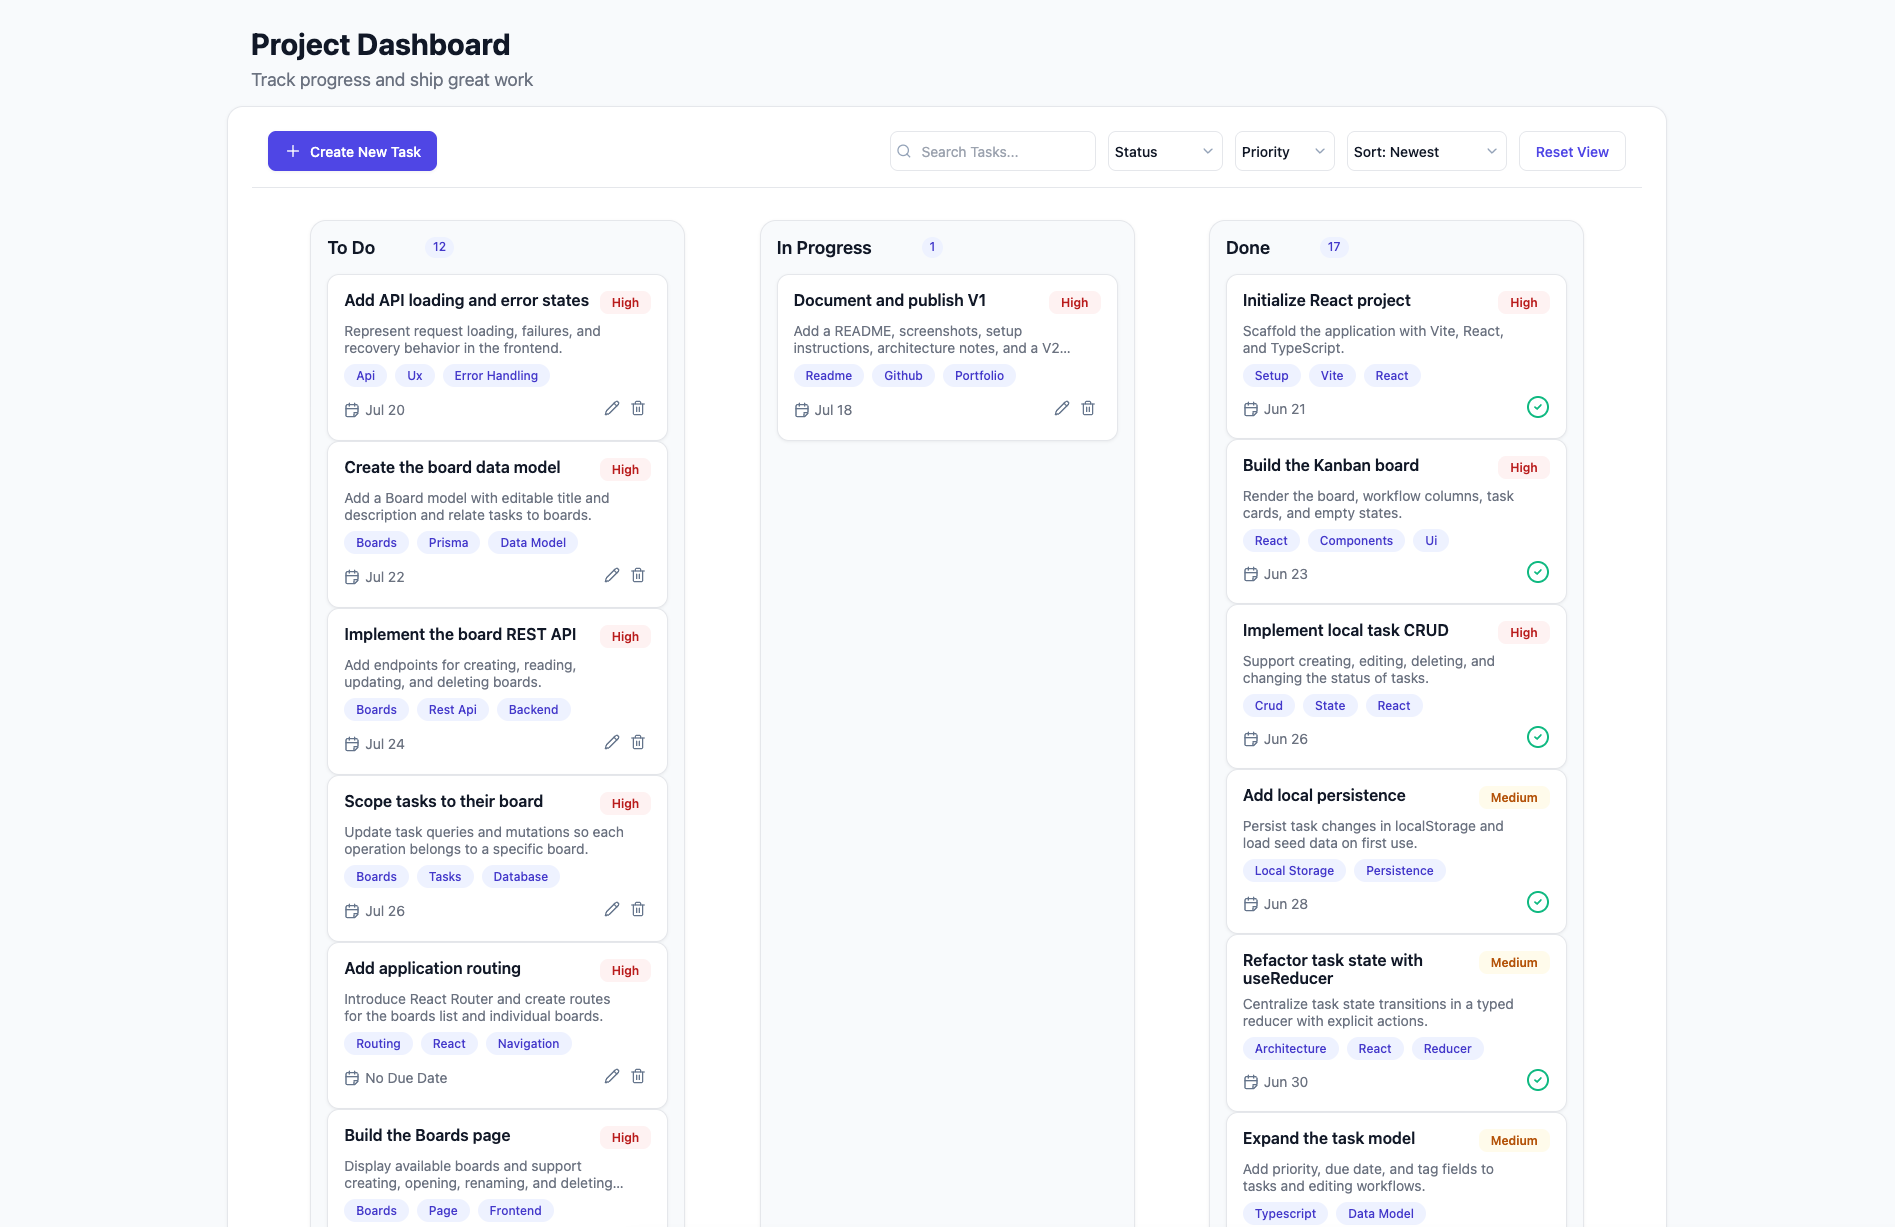
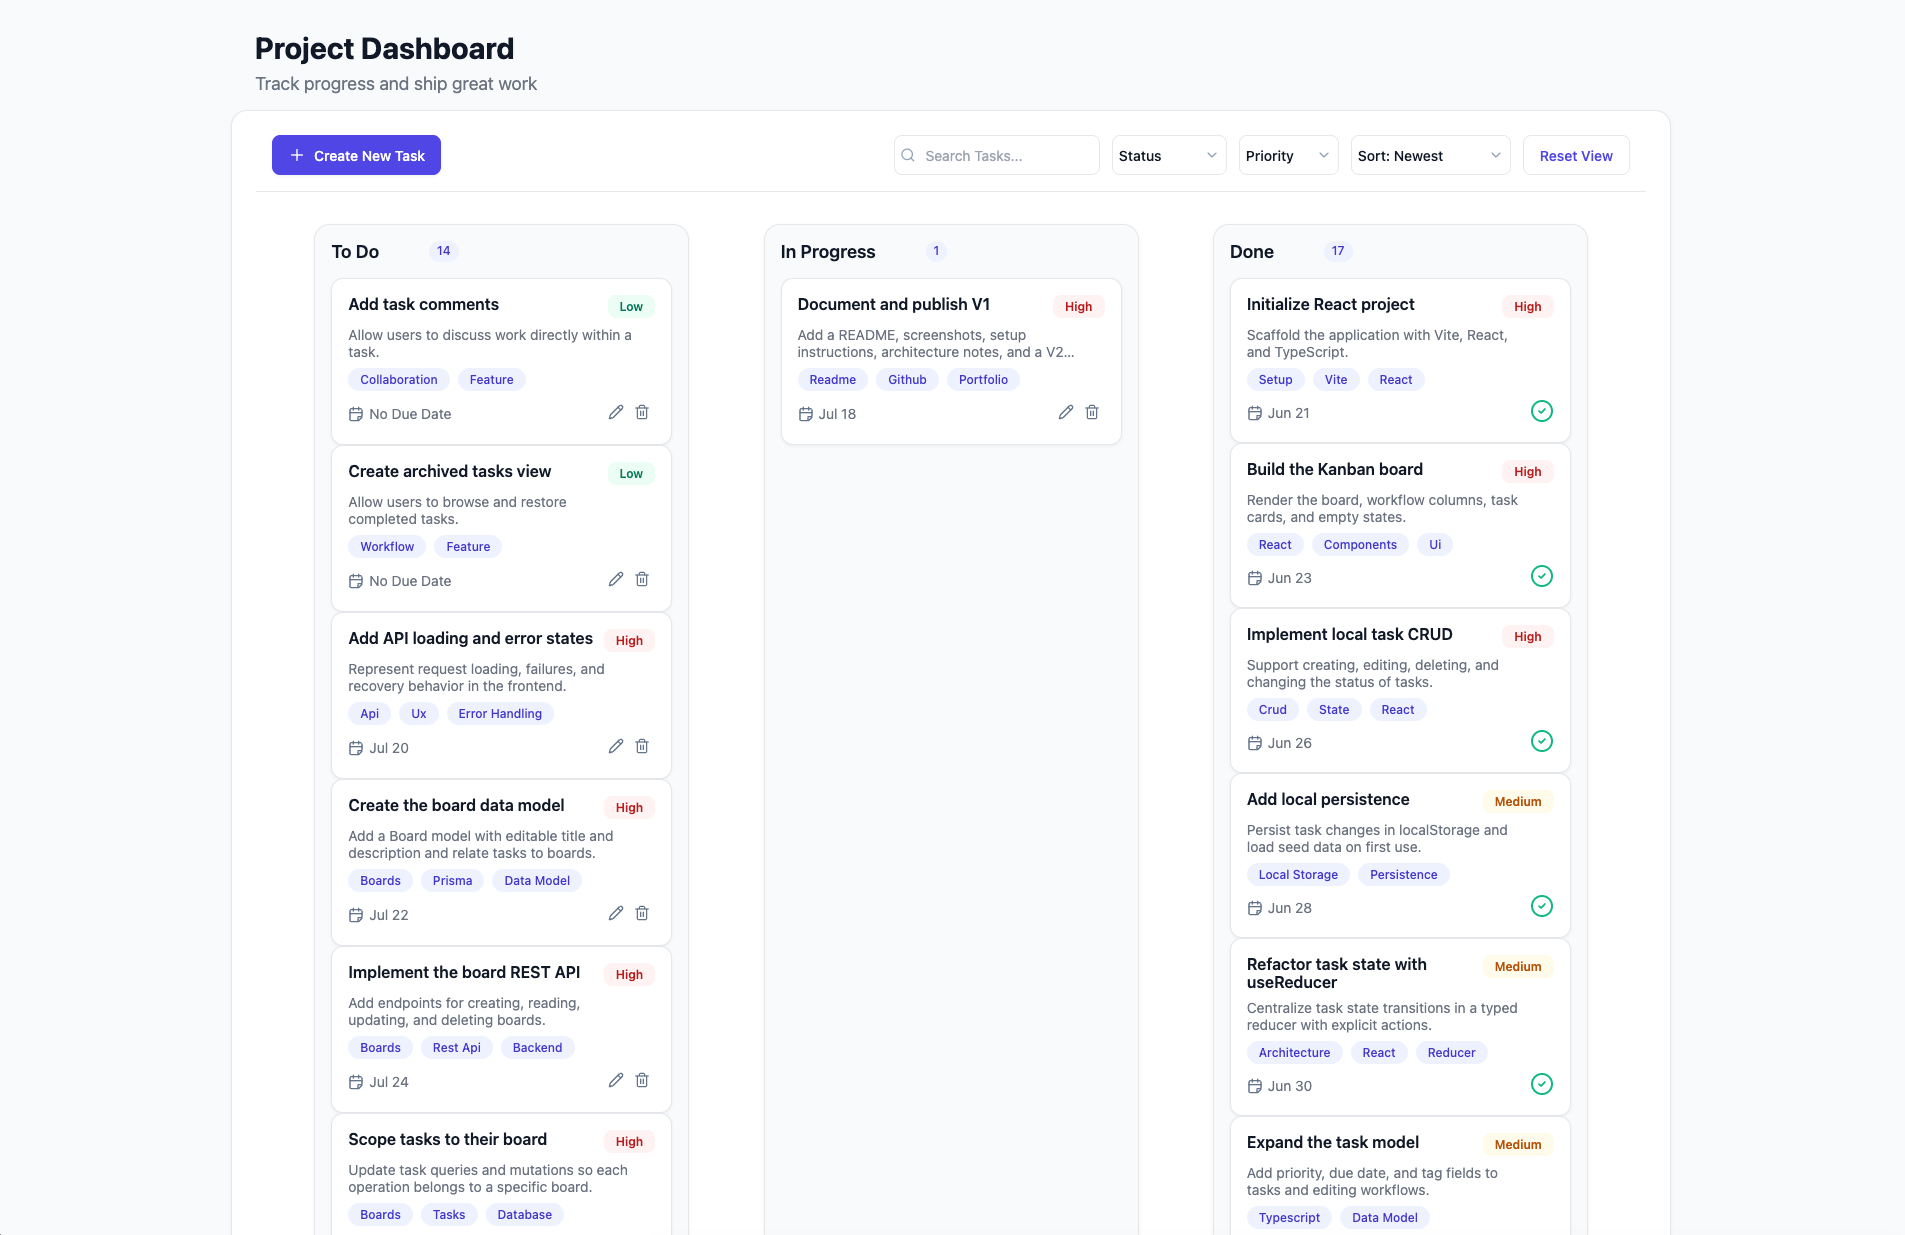
Updated seed data to include some low priority. Updated screenshot for board

diff --git a/prisma/seed.ts b/prisma/seed.ts
@@ -183,6 +183,24 @@ const seedTasks: Task[] = [
   },
   {
     id: 'seed-19',
+    title: 'Add task comments',
+    description: 'Allow users to discuss work directly within a task.',
+    status: 'todo',
+    priority: 'low',
+    dueDate: '',
+    tags: ['collaboration', 'feature'],
+  },
+  {
+    id: 'seed-20',
+    title: 'Create archived tasks view',
+    description: 'Allow users to browse and restore completed tasks.',
+    status: 'todo',
+    priority: 'low',
+    dueDate: '',
+    tags: ['workflow', 'feature'],
+  },
+  {
+    id: 'seed-21',
     title: 'Add API loading and error states',
     description:
       'Represent request loading, failures, and recovery behavior in the frontend.',
@@ -192,7 +210,7 @@ const seedTasks: Task[] = [
     tags: ['api', 'ux', 'error-handling'],
   },
   {
-    id: 'seed-20',
+    id: 'seed-22',
     title: 'Create the board data model',
     description:
       'Add a Board model with editable title and description and relate tasks to boards.',
@@ -202,7 +220,7 @@ const seedTasks: Task[] = [
     tags: ['boards', 'prisma', 'data-model'],
   },
   {
-    id: 'seed-21',
+    id: 'seed-23',
     title: 'Implement the board REST API',
     description:
       'Add endpoints for creating, reading, updating, and deleting boards.',
@@ -212,7 +230,7 @@ const seedTasks: Task[] = [
     tags: ['boards', 'rest-api', 'backend'],
   },
   {
-    id: 'seed-22',
+    id: 'seed-24',
     title: 'Scope tasks to their board',
     description:
       'Update task queries and mutations so each operation belongs to a specific board.',
@@ -222,7 +240,7 @@ const seedTasks: Task[] = [
     tags: ['boards', 'tasks', 'database'],
   },
   {
-    id: 'seed-23',
+    id: 'seed-25',
     title: 'Add application routing',
     description:
       'Introduce React Router and create routes for the boards list and individual boards.',
@@ -232,7 +250,7 @@ const seedTasks: Task[] = [
     tags: ['routing', 'react', 'navigation'],
   },
   {
-    id: 'seed-24',
+    id: 'seed-26',
     title: 'Build the Boards page',
     description:
       'Display available boards and support creating, opening, renaming, and deleting them.',
@@ -242,7 +260,7 @@ const seedTasks: Task[] = [
     tags: ['boards', 'page', 'frontend'],
   },
   {
-    id: 'seed-25',
+    id: 'seed-27',
     title: 'Build the Board details page',
     description:
       'Load the selected board, render its tasks, and display its editable title and description.',
@@ -252,7 +270,7 @@ const seedTasks: Task[] = [
     tags: ['boards', 'routing', 'frontend'],
   },
   {
-    id: 'seed-26',
+    id: 'seed-28',
     title: 'Add user authentication',
     description:
       'Implement account registration, login, logout, and secure password handling.',
@@ -262,7 +280,7 @@ const seedTasks: Task[] = [
     tags: ['auth', 'users', 'security'],
   },
   {
-    id: 'seed-27',
+    id: 'seed-29',
     title: 'Protect routes and board data',
     description:
       'Require authentication and ensure users can access only boards they own.',
@@ -272,7 +290,7 @@ const seedTasks: Task[] = [
     tags: ['authorization', 'security', 'boards'],
   },
   {
-    id: 'seed-28',
+    id: 'seed-30',
     title: 'Add task assignees',
     description:
       'Allow authenticated users to assign board tasks and display assignee information.',
@@ -282,7 +300,7 @@ const seedTasks: Task[] = [
     tags: ['assignees', 'users', 'tasks'],
   },
   {
-    id: 'seed-29',
+    id: 'seed-31',
     title: 'Add automated test coverage',
     description:
       'Test critical frontend behavior, backend services, API endpoints, and authorization rules.',
@@ -292,7 +310,7 @@ const seedTasks: Task[] = [
     tags: ['testing', 'vitest', 'api'],
   },
   {
-    id: 'seed-30',
+    id: 'seed-32',
     title: 'Deploy the finished application',
     description:
       'Deploy the frontend, backend, and database and update the portfolio documentation.',